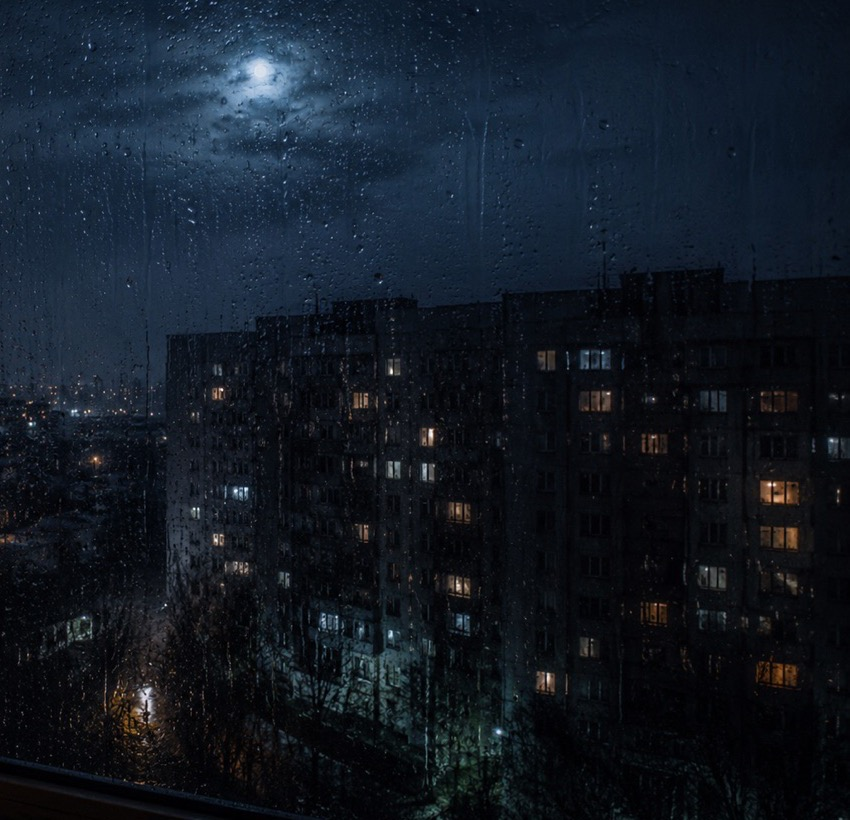
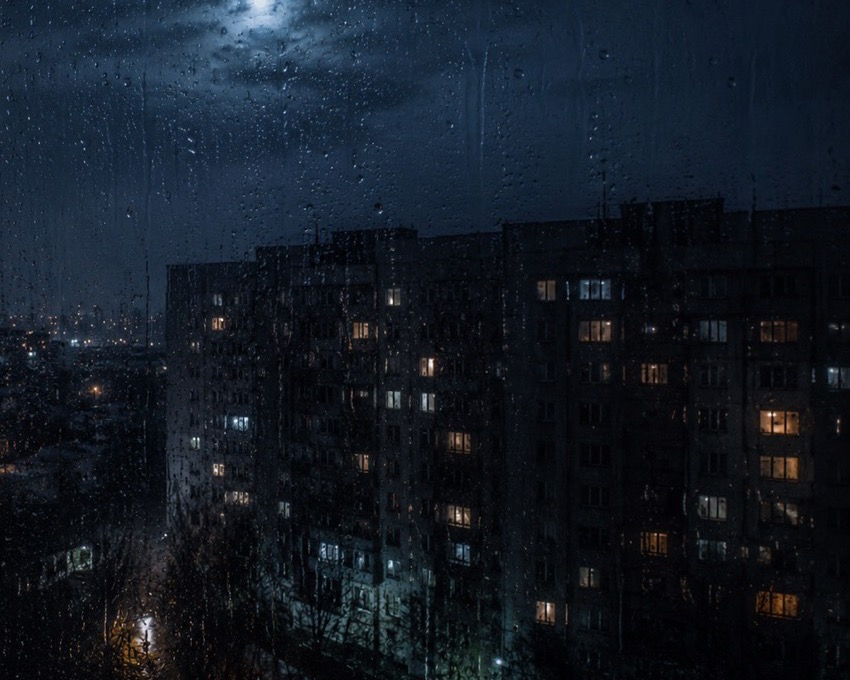
暖房再修四处:①窗户重做=墙上真开洞(南北墙各切四段留窗洞),洞内衬有进深+房间面窗框+中梃+玻璃退到墙厚深处+窗台+褶皱窗帘(不再是两块木板),夜景图压暗一档+打雷时整扇窗亮起,图按玻璃比例1.25重裁;之前=墙面浮一张发光贴图+薄黑框,读作一幅画 ②电视柜摆反了:横着杵出来一头戳进厨房隔墙一头顶着门口,改长边顺墙贴放,电视/雪花屏/摆件/碰撞体全跟着落位,座钟面转朝屋里 ③落地灯纸锥帽换布艺筒罩+内亮灯泡+铜颈 ④书架每格塞满褪色旧书(共享材质,位置按模型包围盒算,呼应书脊全空白剧情)

diff --git a/docs/room_warm.html b/docs/room_warm.html
@@ -166,7 +166,11 @@ plane(ceilMat, 3.4, 3.6, [3.7,2.8,-0.8], [Math.PI/2,0,0]);
 plane(ceilMat, 1.4, 3.6, [-0.3,2.5,-4.4], [Math.PI/2,0,0]);
 plane(ceilMat, 3.3, 2.2, [-0.75,2.5,-7.3], [Math.PI/2,0,0]);
 // 墙
-box(wallMat, 5.5, 2.8, 0.1, -0.75, 1.4, 2.65);           // 客厅南(门窗贴上面)
+// 客厅南墙:窗户位置真开洞(左/右/窗下/窗楣四段),窗洞x[-2.35,-0.85] y[0.9,2.1]
+box(wallMat, 1.15, 2.8, 0.1, -2.925, 1.4, 2.65);
+box(wallMat, 2.85, 2.8, 0.1, 0.575, 1.4, 2.65);
+box(wallMat, 1.5, 0.9, 0.1, -1.6, 0.45, 2.65);
+box(wallMat, 1.5, 0.7, 0.1, -1.6, 2.45, 2.65);
 box(wallMat, 0.1, 2.8, 5.2, -3.55, 1.4, 0);              // 客厅西
 box(wallMat, 2.5, 2.8, 0.1, -2.25, 1.4, -2.65);          // 客厅北左
 box(wallMat, 1.6, 2.8, 0.1, 1.2, 1.4, -2.65);            // 客厅北右
@@ -176,7 +180,11 @@ box(wallMat, 0.1, 2.8, 2.2, 2.0, 1.4, 1.5);              // 段2
 box(wallMat, 0.1, 0.7, 1.6, 2.0, 2.45, -0.4);            // 开口门楣
 box(wallMat, 3.4, 2.8, 0.1, 3.7, 1.4, 1.05);             // 厨房南
 box(wallMat, 0.1, 2.8, 3.7, 5.45, 1.4, -0.8);            // 厨房东
-box(wallMat, 3.5, 2.8, 0.1, 3.7, 1.4, -2.65);            // 厨房北
+// 厨房北墙:窗户开洞,窗洞x[3.25,4.75] y[0.9,2.1]
+box(wallMat, 1.3, 2.8, 0.1, 2.6, 1.4, -2.65);
+box(wallMat, 0.7, 2.8, 0.1, 5.1, 1.4, -2.65);
+box(wallMat, 1.5, 0.9, 0.1, 4.0, 0.45, -2.65);
+box(wallMat, 1.5, 0.7, 0.1, 4.0, 2.45, -2.65);
 // 走道
 box(wallMat, 0.1, 2.5, 3.6, -1.05, 1.25, -4.4);
 box(wallMat, 0.1, 2.5, 3.6, 0.45, 1.25, -4.4);
@@ -257,22 +265,29 @@ const glassMat = new THREE.MeshBasicMaterial({ map:rainTex, side:THREE.DoubleSid
 hotImg("./assets/home/window_night.jpg", glassMat);
 const winFrameM = new THREE.MeshStandardMaterial({ color:0x33291c, roughness:.6 });
 const curtainM = new THREE.MeshStandardMaterial({ color:0x5f4636, roughness:.95 });
+// 真窗户:墙上开了洞——洞内衬(看得出墙有厚度)+房间面窗框+中梃+玻璃退到墙厚深处+窗台+褶皱窗帘
+// 之前是墙面上浮着一张发光贴图+薄黑框,读作一幅画
 function windowUnit(x,z,ry){
   const g=new THREE.Group(); g.position.set(x,1.5,z); g.rotation.y=ry; scene.add(g);
-  const f1=new THREE.Mesh(new THREE.BoxGeometry(1.5,0.06,0.07),winFrameM); f1.position.y=0.58; g.add(f1);
-  const f2=f1.clone(); f2.position.y=-0.58; g.add(f2);
-  const f3=new THREE.Mesh(new THREE.BoxGeometry(0.06,1.22,0.07),winFrameM); f3.position.x=-0.75; g.add(f3);
-  const f4=f3.clone(); f4.position.x=0.75; g.add(f4);
-  const f5=new THREE.Mesh(new THREE.BoxGeometry(0.05,1.16,0.05),winFrameM); g.add(f5);
-  // 玻璃朝屋里(原来rotation.y=PI背对玩家+埋进墙,单面材质被剔除=窗框里只剩墙)
-  const glass=new THREE.Mesh(new THREE.PlaneGeometry(1.44,1.16), glassMat);
-  glass.position.z=0.03; g.add(glass);
-  for(const cx of [-0.95,0.95]){
-    const c=new THREE.Mesh(new THREE.BoxGeometry(0.26,2.2,0.1),curtainM);
-    c.position.set(cx,-0.12,0.09); g.add(c);
+  const revealM=new THREE.MeshStandardMaterial({ color:0xcfc4ae, roughness:.7 });
+  const rv=(w,h,px,py)=>{ const m=new THREE.Mesh(new THREE.BoxGeometry(w,h,0.13),revealM);
+    m.position.set(px,py,-0.045); g.add(m); };
+  rv(1.56,0.035, 0,0.6); rv(1.56,0.035, 0,-0.6); rv(0.035,1.24,-0.76,0); rv(0.035,1.24,0.76,0);
+  const fb=(w,h,px,py)=>{ const m=new THREE.Mesh(new THREE.BoxGeometry(w,h,0.045),winFrameM);
+    m.position.set(px,py,0.012); g.add(m); };
+  fb(1.66,0.07,0,0.615); fb(1.66,0.07,0,-0.615); fb(0.07,1.16,-0.795,0); fb(0.07,1.16,0.795,0);
+  const mul=new THREE.Mesh(new THREE.BoxGeometry(0.05,1.2,0.05),winFrameM);
+  mul.position.set(0,0,-0.03); g.add(mul);
+  const glass=new THREE.Mesh(new THREE.PlaneGeometry(1.5,1.2), glassMat);
+  glass.position.z=-0.085; g.add(glass);
+  const sill=new THREE.Mesh(new THREE.BoxGeometry(1.8,0.045,0.16),revealM);
+  sill.position.set(0,-0.63,0.05); g.add(sill);
+  for(const cx of [-0.98,0.98]) for(let i=0;i<5;i++){
+    const pl=new THREE.Mesh(new THREE.BoxGeometry(0.085,2.15,0.03),curtainM);
+    pl.position.set(cx+(i-2)*0.082, -0.12, 0.1+(i%2)*0.02); g.add(pl);
   }
-  const rod=new THREE.Mesh(new THREE.CylinderGeometry(0.02,0.02,2.3,8),winFrameM);
-  rod.rotation.z=Math.PI/2; rod.position.set(0,1.0,0.1); g.add(rod);
+  const rod=new THREE.Mesh(new THREE.CylinderGeometry(0.018,0.018,2.6,8),winFrameM);
+  rod.rotation.z=Math.PI/2; rod.position.set(0,1.06,0.13); g.add(rod);
 }
 windowUnit(-1.6, 2.59, Math.PI);   // 客厅南窗
 windowUnit(4.0, -2.59, 0);         // 厨房北窗
@@ -337,16 +352,21 @@ box(new THREE.MeshStandardMaterial({color:0x1c150c}), 0.02,0.24,0.02, -0.3,2.4,-
 const bathLight = new THREE.PointLight(0xd7e8ff, 0, 5.5, 2.0); bathLight.position.set(-0.75,2.3,-7.3); scene.add(bathLight);
 const tubeMat = new THREE.MeshBasicMaterial({ color:0x0e1114 });
 const tube = box(tubeMat, 0.9, 0.045, 0.1, -0.75, 2.44, -7.3);
-const tvLight = new THREE.PointLight(0x9fc4ff, 0, 5, 2.0); tvLight.position.set(1.3,1.0,0.9); scene.add(tvLight);
+const tvLight = new THREE.PointLight(0x9fc4ff, 0, 5, 2.0); tvLight.position.set(1.35,1.0,1.2); scene.add(tvLight);
 // 落地灯(沙发角)
 const flG = new THREE.Group(); flG.position.set(-3.15,0,-1.95); scene.add(flG);
 { const base=new THREE.Mesh(new THREE.CylinderGeometry(0.14,0.16,0.03,14),
     new THREE.MeshStandardMaterial({color:0x1c1712, roughness:.5, metalness:.4})); base.position.y=0.015; flG.add(base);
   const pole=new THREE.Mesh(new THREE.CylinderGeometry(0.015,0.015,1.35,10),
     new THREE.MeshStandardMaterial({color:0x2a241c, roughness:.4, metalness:.6})); pole.position.y=0.7; flG.add(pole);
-  const shade=new THREE.Mesh(new THREE.ConeGeometry(0.19,0.24,16,1,true),
-    new THREE.MeshStandardMaterial({color:0xc9a86a, roughness:.9, side:THREE.DoubleSide,
-      emissive:0x3a2408, emissiveIntensity:1})); shade.position.y=1.44; flG.add(shade); }
+  const neck=new THREE.Mesh(new THREE.CylinderGeometry(0.01,0.01,0.12,8),
+    new THREE.MeshStandardMaterial({color:0x8a7440, roughness:.35, metalness:.7}));
+  neck.position.y=1.32; flG.add(neck);
+  const bulb=new THREE.Mesh(new THREE.SphereGeometry(0.035,10,8),
+    new THREE.MeshBasicMaterial({color:0xffe8c0})); bulb.position.y=1.41; flG.add(bulb);
+  const shade=new THREE.Mesh(new THREE.CylinderGeometry(0.125,0.175,0.26,18,1,true),
+    new THREE.MeshStandardMaterial({color:0xd8bd8e, roughness:.85, side:THREE.DoubleSide,
+      emissive:0x6b4a1e, emissiveIntensity:.9})); shade.position.y=1.42; flG.add(shade); }
 const floorLamp = new THREE.PointLight(0xffcf92, 1.7, 6, 1.9); floorLamp.position.set(-3.15,1.36,-1.95); scene.add(floorLamp);
 solids.push({x:-3.15,z:-1.95,r:0.22});
 
@@ -411,7 +431,26 @@ loadModel("modern_coffee_table_01",{ x:-1.7, z:0.9, rotY: 0, onload(o){
     new THREE.MeshStandardMaterial({color:0xcfc7b2, roughness:.9}));
   paper.rotation.y=0.4; paper.position.set(-1.92, b.max.y+0.005, 1.08); scene.add(paper); } });
 loadModel("potted_plant_01",       { x:-3.15, z:2.1, rotY: 0.4, solidR:0.3 });
-loadModel("wooden_bookshelf_worn", { x:-2.0, z:-2.42, rotY: 0, solidR:0.5 });
+loadModel("wooden_bookshelf_worn", { x:-2.0, z:-2.42, rotY: 0, solidR:0.5, onload(o){
+  // 每格塞满褪色旧书(书脊全是空白的那批):共享几种材质,位置按包围盒算
+  const b=new THREE.Box3().setFromObject(o);
+  const H=b.max.y-b.min.y;
+  const mats=[0x6a5240,0x584a3a,0x4a5244,0x6e5a48,0x705848,0x5a4a44,0x625a4c]
+    .map(c=>new THREE.MeshStandardMaterial({color:c, roughness:.85}));
+  for(const t of [0.10,0.25,0.39,0.55,0.70]){          // 各层隔板上表面的高度占比
+    let px=b.min.x+0.09;
+    while(px < b.max.x-0.12){
+      const bw=0.026+Math.random()*0.02, bh=0.15+Math.random()*0.05;
+      if(Math.random()<0.86){
+        const bk=new THREE.Mesh(new THREE.BoxGeometry(bw,bh,0.13), mats[(Math.random()*mats.length)|0]);
+        bk.position.set(px+bw/2, b.min.y+H*t+bh/2, -2.42+(Math.random()*0.02-0.01));
+        bk.rotation.y=(Math.random()-0.5)*0.06;
+        scene.add(bk);
+      }
+      px+=bw+0.004;
+    }
+  }
+} });
 loadModel("modern_ceiling_lamp_01",{ x:-0.7, z:0.5, y:0, rotY:0, onload(o){
   o.updateMatrixWorld(true); const b=new THREE.Box3().setFromObject(o); o.position.y += 2.8 - b.max.y; } });
 loadModel("modern_ceiling_lamp_01",{ x:3.7, z:-0.8, y:0, rotY:0, onload(o){
@@ -419,11 +458,11 @@ loadModel("modern_ceiling_lamp_01",{ x:3.7, z:-0.8, y:0, rotY:0, onload(o){
 loadModel("wooden_table_02",       { x:3.7, z:-0.1, rotY: 0.3, solidR:0.75 });
 loadModel("painted_wooden_chair_01",{ x:3.1, z:-0.75, rotY: 0.5, solidR:0.28 });
 loadModel("painted_wooden_chair_01",{ x:4.3, z:0.45, rotY: -2.4, solidR:0.28 });
-// 电视柜+电视
-box(new THREE.MeshStandardMaterial({ color:0x241a10, roughness:.55 }), 1.15,0.42,0.5, 1.72,0.21,0.9);
-solids.push({rect:true, x0:1.4, x1:2.0, z0:0.55, z1:1.3});
+// 电视柜+电视:长边顺着隔墙贴放(原来横着杵出来,一头戳进厨房一头顶着门口)
+box(new THREE.MeshStandardMaterial({ color:0x241a10, roughness:.55 }), 0.5,0.42,1.15, 1.75,0.21,1.2);
+solids.push({rect:true, x0:1.5, x1:2.0, z0:0.6, z1:1.8});
 let tvScreen=null;
-loadModel("Television_01", { x:1.72, z:0.9, y:0.42, rotY: -Math.PI/2, onload(o){
+loadModel("Television_01", { x:1.75, z:1.2, y:0.42, rotY: -Math.PI/2, onload(o){
   const b=new THREE.Box3().setFromObject(o);
   const w=(b.max.z-b.min.z)*0.62, h=(b.max.y-b.min.y)*0.55;
   tvScreen = new THREE.Mesh(new THREE.PlaneGeometry(w,h),
@@ -436,16 +475,16 @@ loadModel("Television_01", { x:1.72, z:0.9, y:0.42, rotY: -Math.PI/2, onload(o){
 { const rug=new THREE.Mesh(new THREE.CircleGeometry(1.15,36),
     new THREE.MeshStandardMaterial({color:0x53321f, roughness:.97}));
   rug.rotation.x=-Math.PI/2; rug.scale.y=0.75; rug.position.set(-1.7,0.005,0.9); scene.add(rug); }
-// 电视柜面摆件:遥控器/两本旧书/黄铜座钟
-box(new THREE.MeshStandardMaterial({color:0x14100c, roughness:.5}), 0.045,0.014,0.13, 1.32,0.435,1.06);
-box(new THREE.MeshStandardMaterial({color:0x5a3a2a, roughness:.7}), 0.19,0.03,0.14, 1.28,0.443,0.68);
-box(new THREE.MeshStandardMaterial({color:0x36452e, roughness:.7}), 0.17,0.028,0.13, 1.30,0.472,0.70);
+// 电视柜面摆件:遥控器/两本旧书/黄铜座钟(柜子顺墙后重新落位,钟面朝屋里)
+box(new THREE.MeshStandardMaterial({color:0x14100c, roughness:.5}), 0.045,0.014,0.13, 1.58,0.435,0.68);
+box(new THREE.MeshStandardMaterial({color:0x5a3a2a, roughness:.7}), 0.14,0.03,0.19, 1.62,0.443,1.66);
+box(new THREE.MeshStandardMaterial({color:0x36452e, roughness:.7}), 0.13,0.028,0.17, 1.63,0.472,1.67);
 { const clock=new THREE.Mesh(new THREE.CylinderGeometry(0.05,0.05,0.028,16),
     new THREE.MeshStandardMaterial({color:0x8a7440, roughness:.35, metalness:.7}));
-  clock.rotation.x=Math.PI/2; clock.position.set(2.12,0.475,0.72); scene.add(clock);
+  clock.rotation.z=Math.PI/2; clock.position.set(1.68,0.475,0.8); scene.add(clock);
   const face=new THREE.Mesh(new THREE.CircleGeometry(0.038,16),
     new THREE.MeshStandardMaterial({color:0xe8e0cc, roughness:.4}));
-  face.position.set(2.12,0.475,0.736); scene.add(face); }
+  face.rotation.y=-Math.PI/2; face.position.set(1.664,0.475,0.8); scene.add(face); }
 
 // ===== 厨房(橱柜/水槽/灶台/冰箱) =====
 const cabM = new THREE.MeshStandardMaterial({ color:0x50392a, roughness:.6 });
@@ -854,7 +893,7 @@ function nearFacing(target, maxD, minFace){
   return fwd.dot(toV) > (minFace!==undefined?minFace:0.55);
 }
 const SOFA=new THREE.Vector3(-3.0,0.8,0.9);
-const TV=new THREE.Vector3(1.74,1.0,0.9);
+const TV=new THREE.Vector3(1.75,1.0,1.2);
 let hot=null;
 function updatePrompt(){
   hot=null;
@@ -1135,6 +1174,7 @@ function frame(){
   frHinge.rotation.y = -1.8 * frT*frT*(3-2*frT);
   frLight.intensity = frT>0.1 ? frT*(0.5+(Math.random()<0.14?0:0.9)) : 0;
   if((tGlobal*10|0)%2===0) drawRainTex();
+  glassMat.color.setScalar(0.7 + lightning*0.5);   // 夜景比屋里暗一档,雷电时整扇窗亮起
   boltT-=dt;
   if(boltT<=0){ boltT=13+Math.random()*20; lightning=1; setTimeout(rumble, 400+Math.random()*800); }
   lightning=Math.max(0,lightning-dt*2.4);